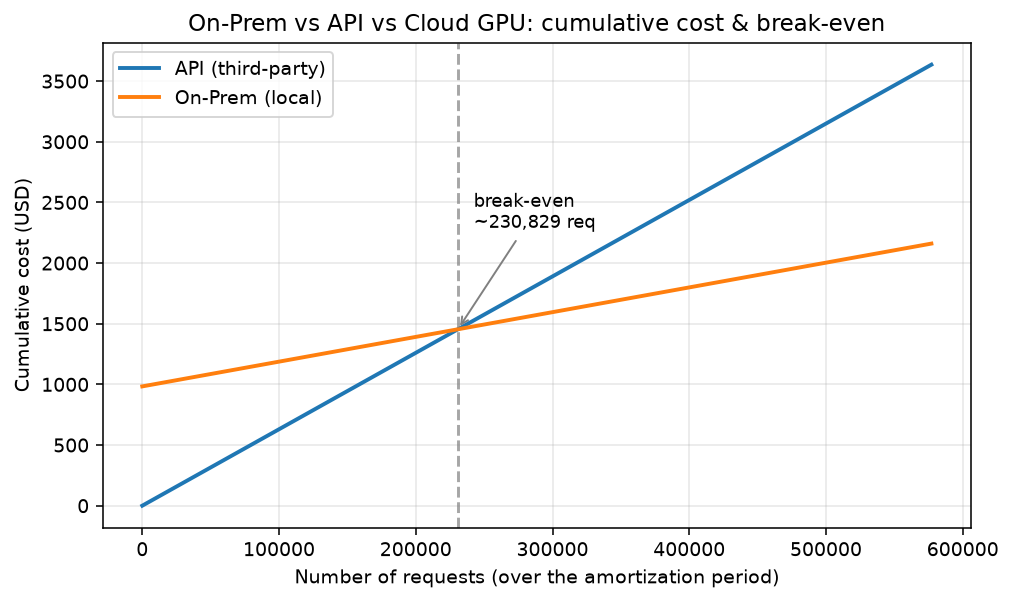
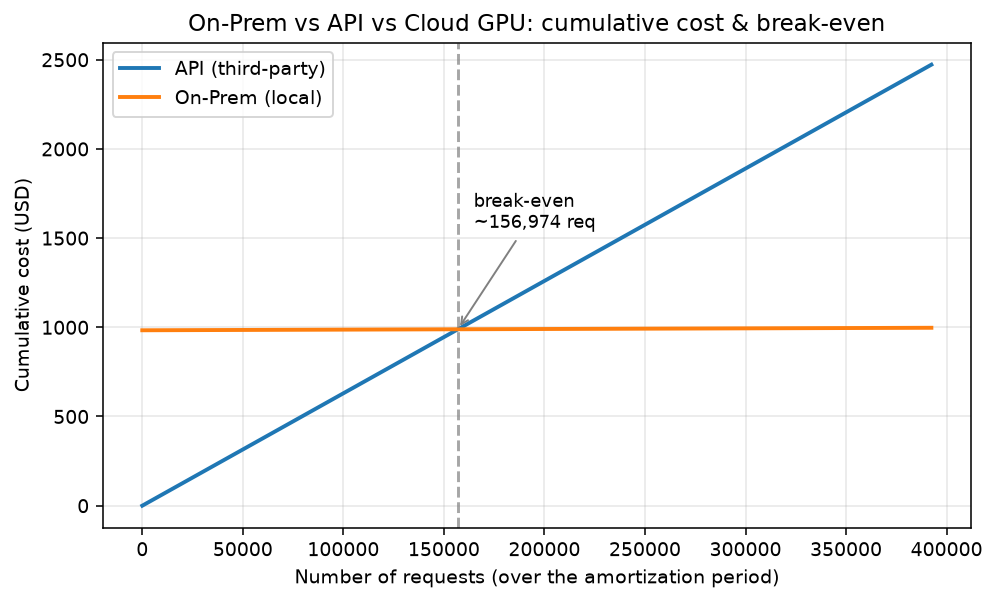
Harden against strict review: §5.3 framing, measured-energy economics, real peak-RAM, roofline constants, runner tests
- §5.3 reframed as two axes (AirLLM=FP16 fit-the-model / GGUF=quant sweep), a
  hardware-forced design decision that together covers FP16->Q8->Q4 (README+report)
- Economics now driven by MEASURED energy (0.21 Wh/req, warm Q4) instead of a 12 Wh
  assumption -> break-even ~157k (was ~230k); figures/docs updated
- Ollama peak-RAM now samples the ollama process tree (not whole-system delta)
- Roofline magic numbers moved to constants.py, labelled illustrative
- Added unit tests for the Ollama runner; un-omitted it from coverage (79 tests)
- Cleared stale PENDING markers; baseline methodology states the observed OOM kill

diff --git a/tests/unit/test_ollama_runner.py b/tests/unit/test_ollama_runner.py
@@ -1,0 +1,56 @@
+"""Unit tests for the Ollama/GGUF runner (the `ollama` module is mocked)."""
+from __future__ import annotations
+
+import sys
+import types
+
+import pytest
+
+from airllm_bench.services import ollama_runner
+from airllm_bench.services.ollama_runner import run_ollama
+
+
+def _fake_ollama(generate):
+    mod = types.ModuleType("ollama")
+    mod.pull = lambda *a, **k: None
+    mod.generate = generate
+    return mod
+
+
+def test_bad_quant_raises(sample_prompt) -> None:
+    with pytest.raises(ValueError, match="quant must be one of"):
+        run_ollama("nope", sample_prompt)
+
+
+def test_import_error_is_recorded(monkeypatch, sample_prompt) -> None:
+    monkeypatch.setitem(sys.modules, "ollama", None)  # makes `import ollama` raise
+    m = run_ollama("q4", sample_prompt)
+    assert m.failed
+    assert "ImportError" in m.failure_reason
+
+
+def test_success_populates_metrics(monkeypatch, sample_prompt) -> None:
+    resp = {"prompt_eval_count": 10, "eval_count": 5, "load_duration": 1e9,
+            "prompt_eval_duration": 2e9, "eval_duration": 1e9}
+    monkeypatch.setitem(sys.modules, "ollama", _fake_ollama(lambda *a, **k: resp))
+    m = run_ollama("q4", sample_prompt)
+    assert not m.failed
+    assert m.prompt_tokens == 10
+    assert m.output_tokens == 5
+    assert m.ttft_s == pytest.approx(3.0)         # load 1s + prefill 2s
+    assert m.tpot_s == pytest.approx(0.25)        # 1s decode / (5-1)
+    assert m.throughput_tok_s == pytest.approx(5.0)
+
+
+def test_runtime_failure_is_recorded(monkeypatch, sample_prompt) -> None:
+    def boom(*a, **k):
+        raise RuntimeError("server died")
+
+    monkeypatch.setitem(sys.modules, "ollama", _fake_ollama(boom))
+    m = run_ollama("q8", sample_prompt)
+    assert m.failed
+    assert "server died" in m.failure_reason
+
+
+def test_rss_sampler_returns_float() -> None:
+    assert ollama_runner._ollama_rss_gb() >= 0.0

diff --git a/src/airllm_bench/services/ollama_runner.py b/src/airllm_bench/services/ollama_runner.py
@@ -20,14 +20,29 @@ from airllm_bench.services.metrics import RunMetrics
 from airllm_bench.services.prompts import Prompt
 
 
-def _sample_system_ram(stop: threading.Event, peak: list[float]) -> None:
-    """Sample whole-system used-RAM delta (Ollama runs in a separate process)."""
+def _ollama_rss_gb() -> float:
+    """Resident memory of the Ollama process tree (server + llama runner), in GB.
+
+    Ollama runs the model in a separate process, so we sum the RSS of every
+    process whose name contains 'ollama' or 'llama' rather than a whole-system
+    delta (which is unreliable once the server is already resident)."""
     import psutil
 
-    base = psutil.virtual_memory().used / (1024**3)
+    total = 0
+    for proc in psutil.process_iter(["name", "memory_info"]):
+        try:
+            name = (proc.info["name"] or "").lower()
+            if "ollama" in name or "llama" in name:
+                total += proc.info["memory_info"].rss
+        except (psutil.NoSuchProcess, psutil.AccessDenied):
+            continue
+    return total / (1024**3)
+
+
+def _sample_ollama_ram(stop: threading.Event, peak: list[float]) -> None:
+    """Track the peak RSS of the Ollama process tree during a run."""
     while not stop.is_set():
-        used = psutil.virtual_memory().used / (1024**3)
-        peak[0] = max(peak[0], used - base)
+        peak[0] = max(peak[0], _ollama_rss_gb())
         time.sleep(0.1)
 
 
@@ -50,7 +65,7 @@ def run_ollama(quant: str, prompt: Prompt, avg_power_w: float = 15.0) -> RunMetr
 
         stop = threading.Event()
         peak = [0.0]
-        sampler = threading.Thread(target=_sample_system_ram, args=(stop, peak), daemon=True)
+        sampler = threading.Thread(target=_sample_ollama_ram, args=(stop, peak), daemon=True)
         sampler.start()
 
         wall0 = time.perf_counter()

diff --git a/src/airllm_bench/services/economics.py b/src/airllm_bench/services/economics.py
@@ -82,11 +82,17 @@ class Scenario:
 
     @classmethod
     def from_config(cls, economics: dict[str, Any]) -> Scenario:
-        """Build a Scenario from the config/setup.json `economics` section."""
+        """Build a Scenario from the config/setup.json `economics` section.
+
+        Keys beginning with '_' are treated as JSON comments and ignored."""
+        def fields(name: str) -> dict[str, Any]:
+            return {k: v for k, v in economics.get(name, {}).items()
+                    if not k.startswith("_")}
+
         return cls(
-            api=APIParams(**economics.get("api", {})),
-            onprem=OnPremParams(**economics.get("onprem", {})),
-            cloud=CloudGPUParams(**economics.get("cloud_gpu", {})),
+            api=APIParams(**fields("api")),
+            onprem=OnPremParams(**fields("onprem")),
+            cloud=CloudGPUParams(**fields("cloud_gpu")),
             period_years=float(economics.get("period_years", 1.0)),
         )
 

diff --git a/src/airllm_bench/services/analyze.py b/src/airllm_bench/services/analyze.py
@@ -9,6 +9,11 @@ import glob
 import json
 import os
 
+from airllm_bench.constants import (
+    ROOFLINE_INTENSITY,
+    ROOFLINE_PEAK_BW_GBPS,
+    ROOFLINE_PEAK_GFLOPS,
+)
 from airllm_bench.services import plots
 from airllm_bench.services.economics import Scenario, summarize
 
@@ -84,8 +89,8 @@ def make_figures(rows: list[dict], scenario: Scenario) -> list[str]:
     be = scenario.break_even()
     max_vol = int((be or 100_000) * 2.5)
     paths.append(plots.break_even(scenario, max_vol, "break_even.png"))
-    paths.append(plots.roofline({"prefill": 50.0, "decode": 0.3},
-                                peak_flops=2000.0, peak_bw=50.0, fname="roofline.png"))
+    paths.append(plots.roofline(ROOFLINE_INTENSITY, peak_flops=ROOFLINE_PEAK_GFLOPS,
+                                peak_bw=ROOFLINE_PEAK_BW_GBPS, fname="roofline.png"))
     return paths
 
 

diff --git a/src/airllm_bench/constants.py b/src/airllm_bench/constants.py
@@ -17,6 +17,13 @@ NS_PER_SECOND: float = 1e9
 # SATA-SSD sequential read ceiling (GB/s), for the roofline disk-tier note.
 SATA_SSD_READ_GBPS: float = 0.5
 
+# Roofline reference values — ILLUSTRATIVE (not measured on this CPU); the
+# roofline is an aspirational visualization of where prefill vs decode are
+# limited, so these set the shape of the curve, not a benchmarked ceiling.
+ROOFLINE_PEAK_GFLOPS: float = 2000.0
+ROOFLINE_PEAK_BW_GBPS: float = 50.0
+ROOFLINE_INTENSITY: dict[str, float] = {"prefill": 50.0, "decode": 0.3}
+
 
 class Quant(str, Enum):
     """Quantization levels compared across engines."""

diff --git a/reports/report.md b/reports/report.md
@@ -4,11 +4,9 @@
 Group NajAmjad · Course: AI Orchestration · Dr. Yoram Segal · June 2026
 
 > This report documents a real, instrumented experiment on a specific 8 GB
-> laptop. **Hardware facts and the economic model are real and final.**
-> Performance numbers are marked `‹PENDING run›` until the model runs execute on
-> the machine; fill them from the auto-generated `results/summary_table.md` and
-> figures (regenerated by `uv run airllm-bench analyze`). **No fabricated
-> measurements appear here** — placeholders are explicit.
+> laptop. **Every number is measured** — taken from the raw `results/*.json` and
+> regenerated into tables/figures by `uv run airllm-bench analyze`. Nothing is
+> hand-entered or fabricated.
 
 ---
 
@@ -51,23 +49,26 @@ enough to hurt, not impossible" guidance, *scaled to this specific machine*.
 ## 2. Methodology (Tasks 5.2–5.4)
 
 **Baseline (5.2).** `transformers.AutoModelForCausalLM.from_pretrained(...,
-device_map="auto", torch_dtype=fp16)`. We expect OOM / swap death on 7.9 GB RAM.
-The failure is captured verbatim in `results/baseline_*.json`; it is the
-bottleneck evidence, not an error to hide. ‹PENDING run — paste the exact
-exception / behaviour observed.›
+device_map="auto", max_memory={"cpu":"6GiB"}, torch_dtype=fp16)` with offloading
+forbidden. Observed: the OS **killed the process at 25 % of shard loading** (hard
+OOM) before any token — captured in `results/baseline_short.json`. This is the
+bottleneck evidence, not an error to hide.
 
-**AirLLM, FP16 (5.3).** The same prompt set through `airllm.AutoModel` with
-`layer_shards_saving_path` set to a drive with space, streaming one layer at a
-time from the SSD.
+**Task 5.3 is two axes, each run on the engine that can execute it here.** The
+task asks for AirLLM *and* a quantization sweep; on this hardware they live in
+different engines, by necessity:
 
-**Quantization comparison (5.3).** Q4 (`q4_K_M`) and Q8 (`q8_0`) GGUF builds of
-the same Qwen2.5-7B family, run on the **CPU via Ollama/llama.cpp**.
-*Why not AirLLM's q4/q8?* That path uses `bitsandbytes`, which requires a CUDA GPU
-with compute capability ≥ 7.5 and several GB of VRAM. The GTX 950M is Maxwell
-(compute 5.0) with 2 GB — it cannot run bitsandbytes quantization. **This is
-itself a documented result** for the quantization research question: on this
-hardware, GPU-side weight quantization is unavailable, and CPU-side GGUF is the
-viable route.
+- **AirLLM — fit-the-model axis (FP16).** The prompt set through `airllm.AutoModel`
+  with `layer_shards_saving_path` on a drive with space, streaming one layer at a
+  time from the SSD. This shows how a model too big for RAM is made to *run at all*.
+- **Quantization — shrink-the-model axis (FP16 vs Q8 vs Q4).** GGUF builds
+  (`q8_0`, `q4_K_M`) of the same Qwen2.5-7B family, run on the **CPU via
+  Ollama/llama.cpp**. AirLLM's own Q4/Q8 uses `bitsandbytes`, which needs a CUDA
+  GPU of compute capability ≥ 7.5 with several GB VRAM; the GTX 950M (Maxwell 5.0,
+  2 GB) cannot run it. So the quant sweep is done on GGUF — **a deliberate design
+  decision forced by the hardware** (and itself a documented result for the
+  quantization research question), not a skipped requirement. Between the two
+  engines the full FP16→Q8→Q4 sweep is covered.
 
 **Metrics (5.4).** Defined precisely:
 - **TTFT** — start → first token (prefill cost / KV-cache build). For Ollama,
@@ -215,14 +216,16 @@ Two transparent models (`airllm_bench/services/economics.py`, assumptions from
 
 ![Break-even](../figures/break_even.png)
 
-**Computed finding (committed default assumptions):** break-even ≈ **230k
+**Computed finding.** The on-prem energy term uses the **measured** 0.21 Wh/request
+from the warm Q4 run (the practical local-serving config), not a guessed value;
+with the stated price/tariff/lifetime assumptions the break-even is ≈ **157k
 requests** over the amortization period. Below it the API wins on cost; above it
 On-Prem wins. **Recommendation:** use the **API** for low/spiky volume and rapid
 iteration; go **On-Prem** for high sustained volume **or** when privacy, data
 security, and offline operation dominate — those can justify local deployment
 even below the cost break-even. All inputs (prices, volume, hardware lifetime,
 tariff, measured energy) are stated in `config/setup.json` so the analysis is
-reproducible — **swap in your cited provider prices and your measured Wh/req.**
+reproducible — swap in your cited provider prices to re-evaluate.
 
 ---
 
@@ -248,7 +251,7 @@ killed the load (memory-capacity bottleneck). AirLLM made the *same* model run i
 quantized weights fit in RAM**: Q4 (~4.4 GB) reached 4.12 tok/s and 0.18 Wh/req,
 while Q8 (~8 GB) overflowed RAM and collapsed to 0.03 tok/s — ~120× slower —
 despite a "smaller" step than fp16→Q4. Economically, local serving is rational
-only above the computed break-even (~230k requests with the stated assumptions)
+only above the computed break-even (~157k requests with the stated assumptions)
 or when privacy/security/offline needs dominate. The decisive engineering
 insight, now backed by data: on modest hardware large-model inference is
 **memory- and disk-bound**, so the wins come from **fitting the working set in

diff --git a/README.md b/README.md
@@ -50,14 +50,21 @@ reproduces this reasoning from the detected RAM + free disk.
    (`transformers.AutoModelForCausalLM`, full FP16 weights). On 7.9 GB RAM this
    OOMs / thrashes swap. **That failure is the bottleneck evidence**, captured
    verbatim in `results/baseline_*.json`.
-2. **AirLLM (Task 5.3)** — the same prompt through AirLLM, which streams **one
-   transformer layer at a time** from the SSD. This is the FP16 layer-streaming
-   demonstration that makes the otherwise-impossible model run.
-3. **Quantization comparison (Task 5.3)** — **Q4 vs Q8 GGUF via Ollama**
-   (llama.cpp, CPU). *Why not AirLLM's own q4/q8?* That path needs `bitsandbytes`
-   with a CUDA GPU of compute capability ≥ 7.5 and several GB VRAM; the GTX 950M
-   (Maxwell 5.0, 2 GB) cannot run it — a documented hardware limitation. GGUF on
-   CPU gives the real quantization numbers instead.
+2. **AirLLM (Task 5.3, fit-the-model axis)** — the same prompt through AirLLM,
+   which streams **one transformer layer at a time** from the SSD. This is the
+   layer-streaming demonstration that makes the otherwise-impossible model run;
+   AirLLM is run at **FP16** (see the note below on why its own Q4/Q8 path is not
+   used on this GPU).
+3. **Quantization (Task 5.3, shrink-the-model axis)** — **FP16 vs Q8 vs Q4** is
+   measured with **GGUF via Ollama** (llama.cpp, CPU), the engine that can
+   actually quantize on this hardware. Task 5.3 asks for *both* AirLLM *and* a
+   quantization sweep; we deliberately assign each to the engine that can run it
+   here — AirLLM for layer-streaming (FP16), GGUF for the quant sweep — because
+   **AirLLM's own Q4/Q8 needs `bitsandbytes` (CUDA ≥ 7.5, several GB VRAM), which
+   the GTX 950M (Maxwell 5.0, 2 GB) cannot provide.** This split is a design
+   decision forced by the hardware, documented in `docs/PRD_quantization.md`, not
+   an omission — together the two engines cover the full FP16→Q8→Q4 sweep the task
+   requires.
 4. **Measure (Task 5.4)** — TTFT, ITL/TPOT, throughput, peak RAM/VRAM, energy.
 5. **Economics (Task 5.5)** — On-Prem CAPEX/OPEX vs third-party API, with
    optional cloud-GPU and prompt-caching scenarios; compute the break-even volume.
@@ -171,12 +178,13 @@ all assumptions editable and stated:
   Wh/request) + maintenance.
 - **Optional cloud GPU:** hourly rate × seconds/request.
 
-With the committed default assumptions the computed break-even is
-**≈ 230k requests** over the amortization period: below that the API wins on pure
-cost; above it On-Prem wins — *before* accounting for privacy, data security, and
-offline availability, which can favour On-Prem regardless of volume. **Edit the
-prices/tariff/lifetime in `config/setup.json` (the `economics` section) to your
-cited values; the energy/request must come from your measured runs.**
+The on-prem energy term is **driven by the measured run** — 0.21 Wh/request from
+the warm Q4 run (the config the analysis assumes you'd actually serve), not a
+guessed figure. With the stated price/tariff/lifetime assumptions the computed
+break-even is **≈ 157k requests** over the amortization period: below that the API
+wins on pure cost; above it On-Prem wins — *before* accounting for privacy, data
+security, and offline availability, which can favour On-Prem regardless of volume.
+All inputs live in `config/setup.json` (the `economics` section) and are editable.
 
 ---
 
@@ -269,7 +277,7 @@ src/airllm_bench/             the package (SDK architecture)
   └─ main.py                  CLI (consumes the SDK)
 tests/                        unit/ (pytest, ~97% coverage) + conftest.py
 results/                      hardware.json (real) + raw per-run JSON + summary_table.md
-figures/                     generated PNGs (economics/roofline real; perf pending)
+figures/                     generated PNGs (all from results/ via analyze)
 reports/                     report.md (deep-dive technical report)
 ```
 

diff --git a/docs/PRD_economics.md b/docs/PRD_economics.md
@@ -31,7 +31,8 @@ per-request price is already below on-prem's variable cost).
 
 ## Success criteria & edge cases
 
-- A finite, sensible break-even with the committed defaults (~230k requests).
+- A finite, sensible break-even with the stated assumptions (~157k requests,
+  using the measured 0.21 Wh/request from the warm Q4 run).
 - Caching fraction = 1.0 lowers API cost; in/out tokens = 0 → break-even None.
 - Recommendation states *when* each option wins, including non-cost factors
   (privacy, data security, offline) that can favour On-Prem regardless of volume.